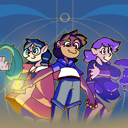
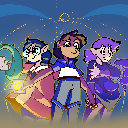
css and js changes yayy

diff --git a/index.html b/index.html
@@ -20,9 +20,9 @@
         
         <p>
         <a style="background:#5b397d" class="link" href="art"><img class="icon" src="icons/art.png">Art Showcase</a>
-        <a style="background:#d76b50" class="link" href="projects"><img class="icon" src="icons/projects.png">Projects I worked on</a>
-        <a style="background:#d7507f" class="link" href="ask"><img class="icon" src="icons/ask.png">Tell me things</a>
-        <a style="background:#5062d7" class="link" href="stamps.html"><img class="icon" src="icons/buttons.png">Buttons</a>
+        <a style="background:#d76b50" class="link" href="projects"><img class="icon" src="icons/projects.png">Stuff I helped make</a>
+        <a style="background:#d7507f" class="link" href="ask"><img class="icon" src="icons/ask.png">Ask me things</a>
+        <a style="background:#5062d7" class="link" href="stamps.html"><img class="icon" src="icons/buttons.png">Site Buttons</a>
         <a style="background:#2735cc" class="link" href="https://bsky.app/profile/jamiemakes.art"><img class="icon" src="icons/bluesky.png">Bluesky</a>
         <a style="background:#407987" class="link" href="https://lezzlebit.bandcamp.com/"><img class="icon" src="icons/bandcamp.png">Bandcamp</a>
         <a style="background:#4cafa7" class="link" href="https://artfight.net/~Lezzlebit"><img class="icon" src="icons/artfight.png">Artfight</a>
@@ -65,7 +65,6 @@
         </p>
         
         <a style="background:#ba4f45" class="link" href="https://lezzlebit.itch.io/delayed-trickshot"><img class="icon" src="icons/itchio.png">Itch.io</a>
-        <a style="background:#407987" class="link" href="https://lezzlebit.bandcamp.com/album/delayed-trickshot"><img class="icon" src="icons/bandcamp.png">Bandcamp Soundtrack</a>
         <a style="background:#cf7f3a" class="link" href="https://ldjam.com/events/ludum-dare/50/delayed-trickshot"><img class="icon" src="icons/ludumdare.png">Original Jam Entry</a>
         
       </div>

diff --git a/art/script.js b/art/script.js
@@ -20,14 +20,16 @@ for (var i = 0; i < images.length; i++) {
 
 function upscale() {
   
-  if (window.innerWidth >= 800) {
-    if (document.getElementById('main').style.height == 'auto') {
-      document.getElementById('main').style.cssText = 'height: 80vh; cursor:zoom-in;';
-    } else {
-      document.getElementById('main').style.cssText = 'height: auto; cursor:zoom-out;';
-    }
+  resX = parseInt(document.getElementById("resolution").innerText.split("x")[1].split("(")[0]);
+
+  if (document.getElementById('main').style.height == 'auto') {
+    document.getElementById('main').style.cssText = 'height: 80vh; cursor:zoom-in;';
   } else {
-    window.open(document.getElementById('main').getAttribute("src"), "_blank", "noopener, noreferrer");
+    if (window.innerWidth >= resX) {
+      document.getElementById('main').style.cssText = 'height: auto; cursor:zoom-out;';
+    } else {
+      window.open(document.getElementById('main').getAttribute("src"), "_blank", "noopener, noreferrer");
+    }
   }
 
 
@@ -57,7 +59,6 @@ document.getElementById("show").style.display = "";
   imageToSet.style.cssText = 'height: 80vh; width: auto; cursor:zoom-in;';
 
   if (window.innerWidth < 800) {
-    console.log("changed!");
     imageToSet.style.cssText = 'width: 100%; cursor:default;';
   }
 

diff --git a/art/index.html b/art/index.html
@@ -254,7 +254,12 @@ date="January 2026">
     padding: 4em;
   }
 
+  .icon {
+    image-rendering: auto;
+  }
+
   .img {
+    image-rendering: pixelated;
     border-radius: 1px;
   }
   

diff --git a/art/index copy.html b/art/index copy.html
@@ -79,7 +79,12 @@
     padding: 4em;
   }
 
+  .icon {
+    image-rendering: auto;
+  }
+
   .img {
+    image-rendering: pixelated;
     border-radius: 1px;
   }
   

diff --git a/style.css b/style.css
@@ -33,6 +33,10 @@ h1 {
 }
 
 
+.box .banner {
+  image-rendering: pixelated;
+}
+
 .cbox {
   max-width: 400px;
   display: block;

diff --git a/art/art.py b/art/art.py
@@ -48,7 +48,7 @@ for i in images:
             resize = og.crop((uppercrop,0,og.height+uppercrop, og.height))
         else:
             resize = og.crop((0,uppercrop*-1,og.width, og.width-uppercrop))
-        resize = resize.resize((128, 128))
+        resize = resize.resize((128, 128), Image.NEAREST)
 
         thumbnail = Image.new("RGBA", (128,128))
         thumbnail.paste(resize, (0,0))
